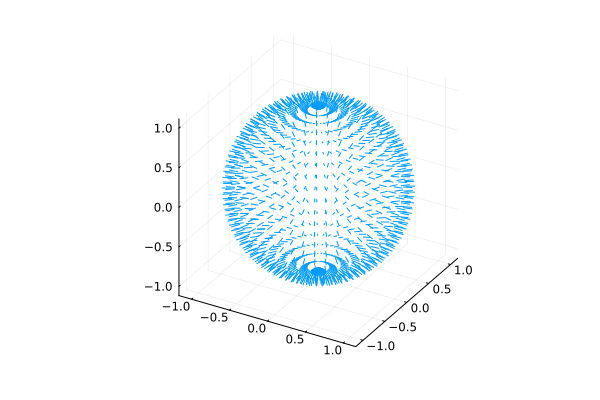
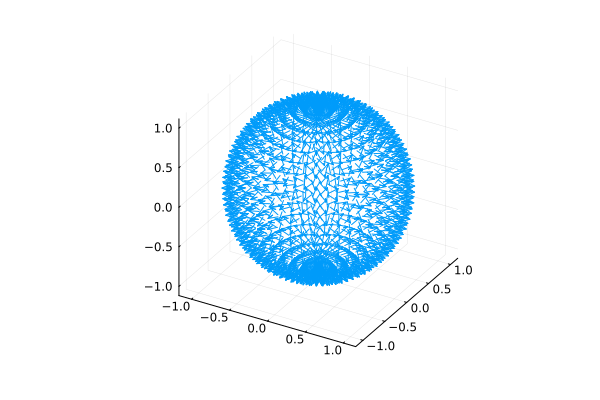
(GR) draw arrow heads on 3d paths (#5870)

Changed region(s): [[0.36, 0.21, 0.69, 0.72]]

diff --git a/NEWS.md b/NEWS.md
@@ -49,6 +49,7 @@
   ticks stay on round dates. A type recipe hands the numbers back as its type with a third function
 
 ### Fixed
+- GR backend: `arrow` draws the heads of a 3d path, and of a 3d `quiver`, which it left out (#4953)
 - GR backend: the colorbar of `contourf` has the colors of its bands when the levels are not evenly spaced, where it
   took them from the values of the levels (#4950), and values below `clims` take the lowest color, as those above
   take the highest, where they were left blank (#5043)
